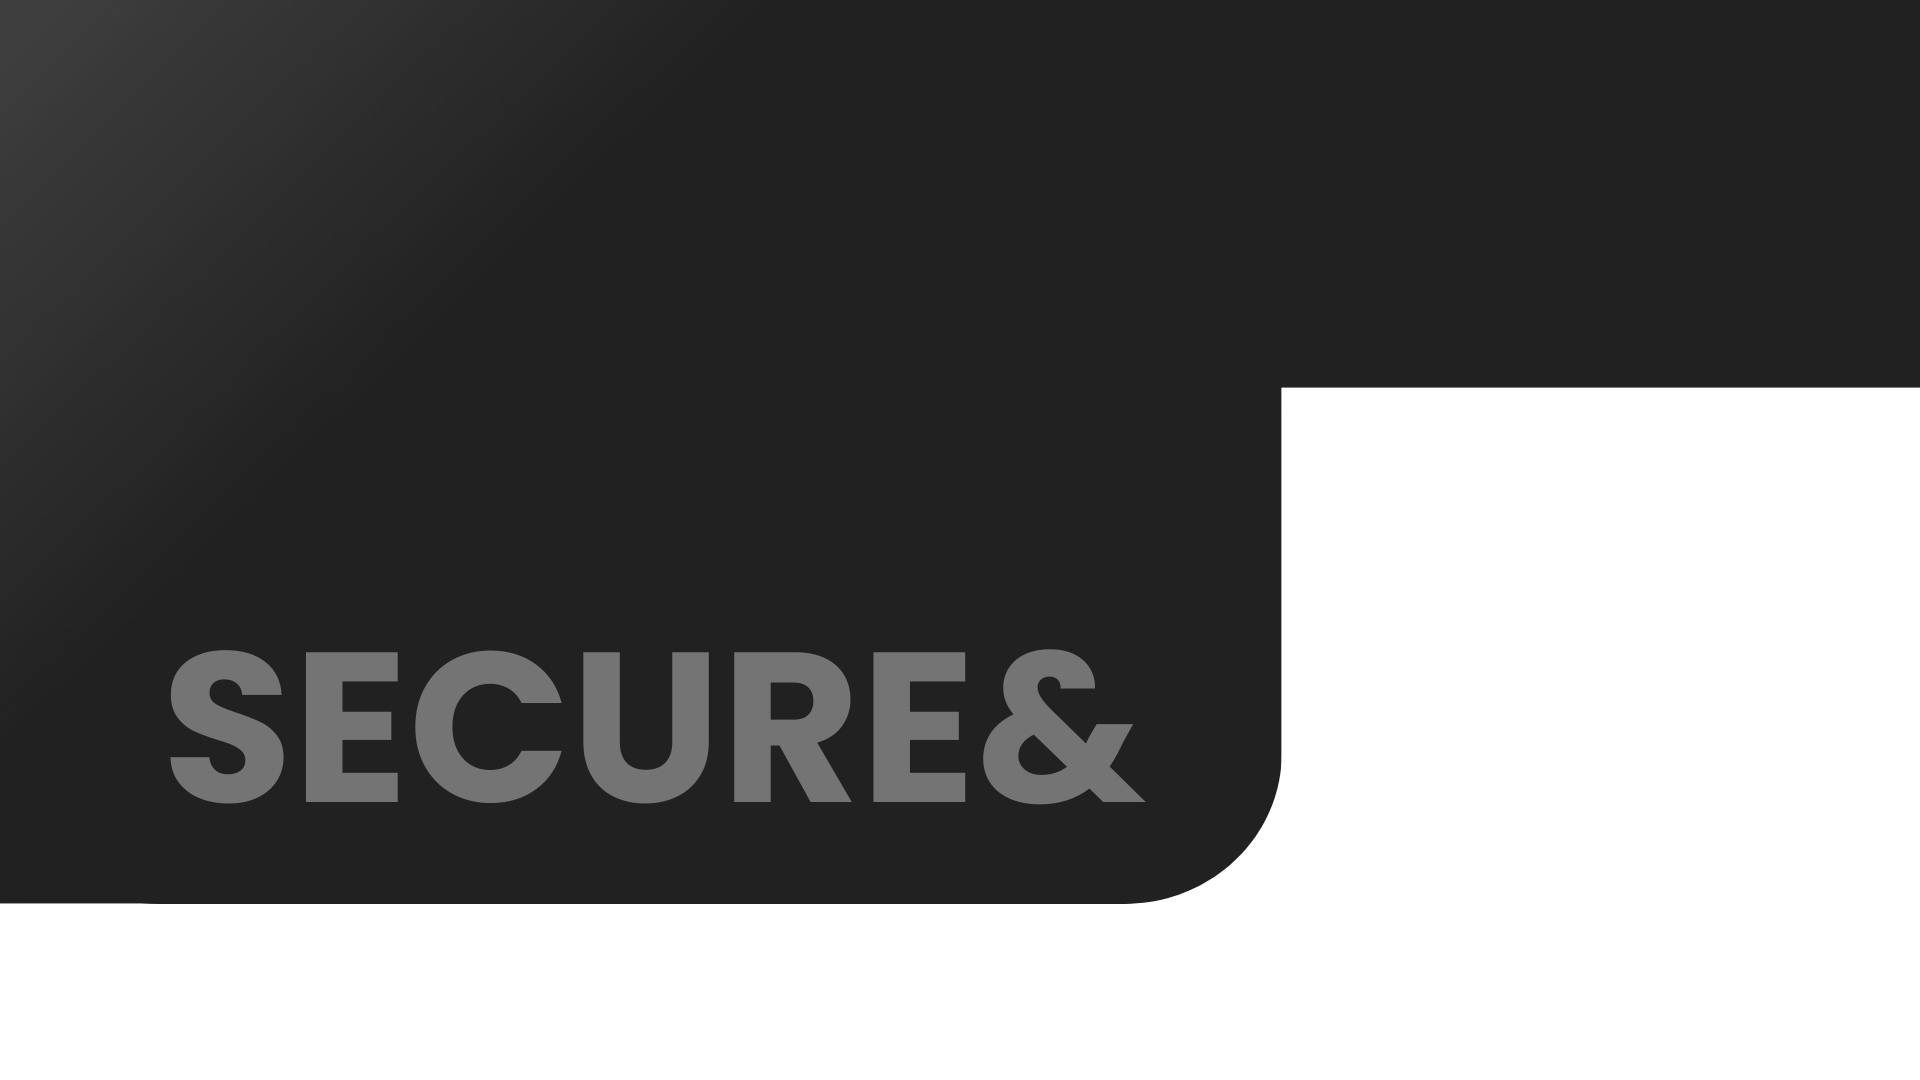
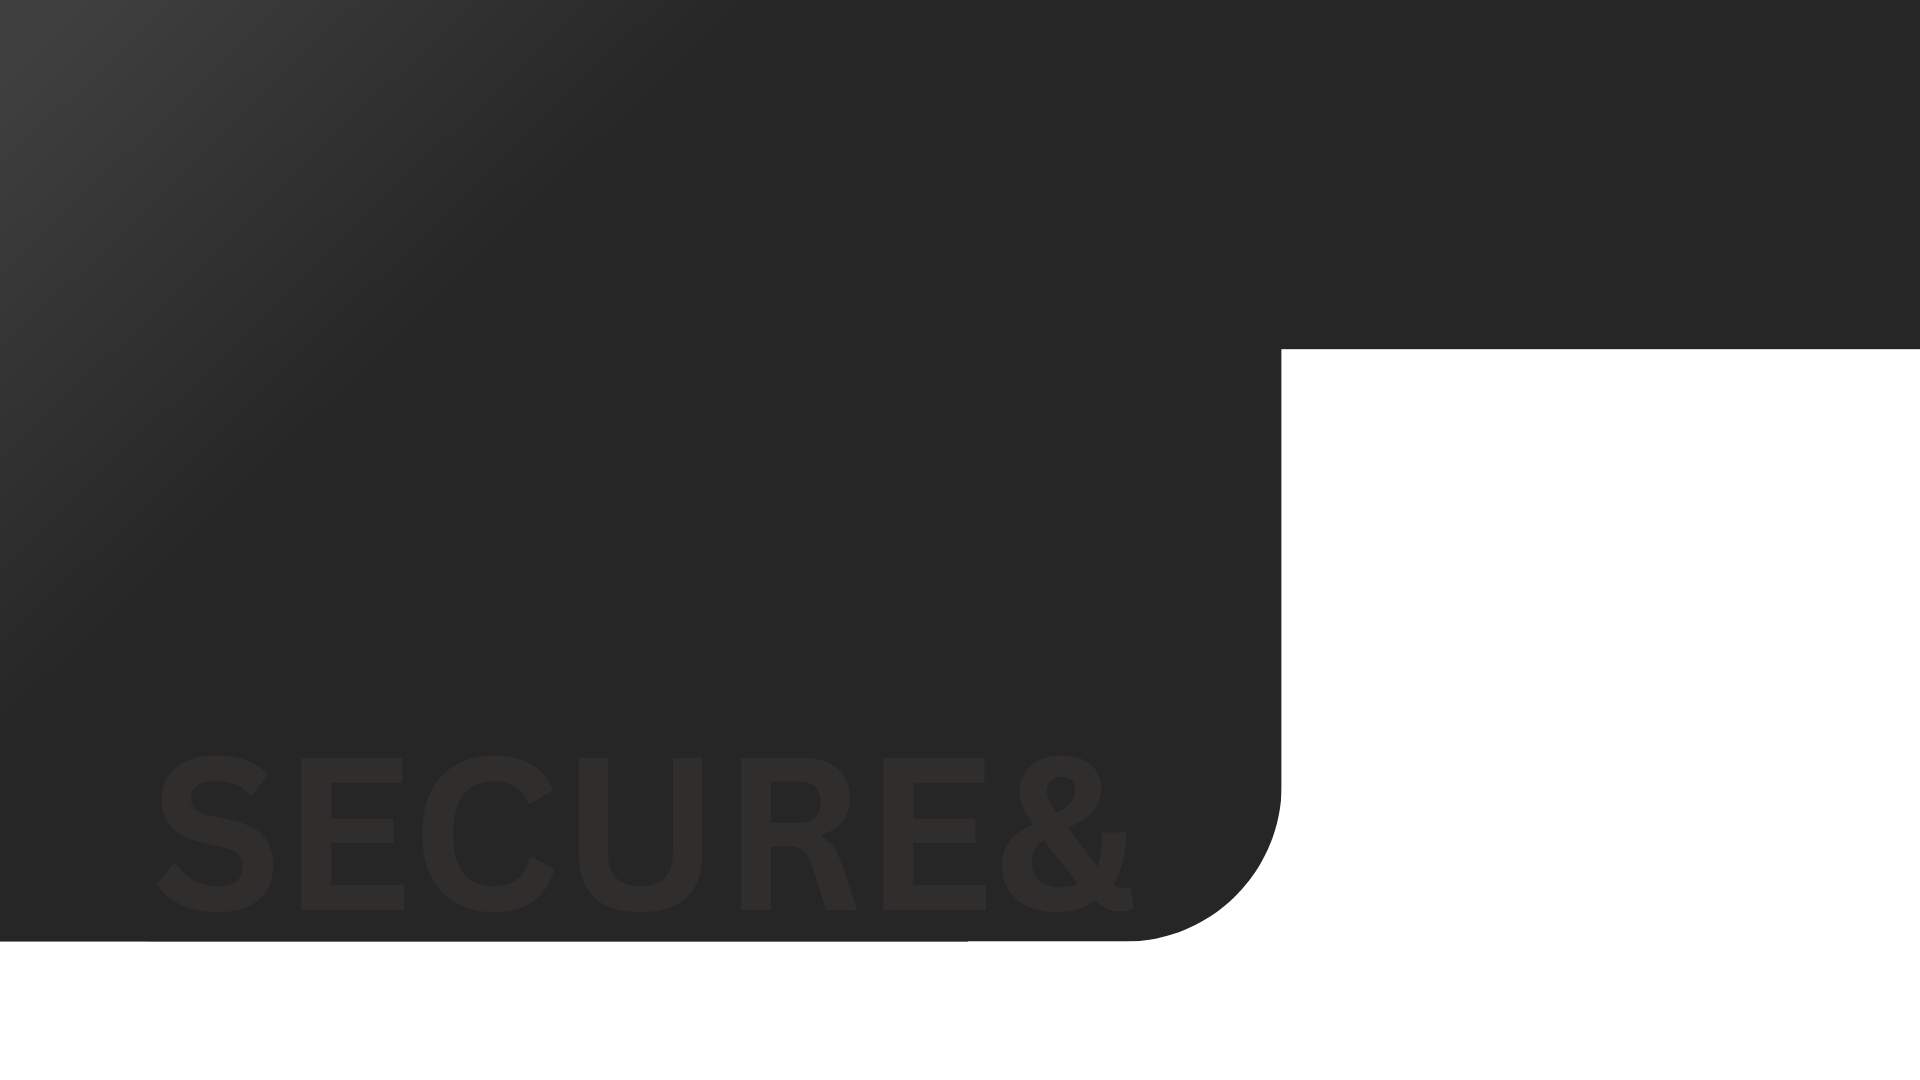
some changes

Changed region(s): [[0.0938, 0.5806, 0.5938, 0.7639], [0.0, 0.7333, 0.6875, 0.8861], [0.6562, 0.3056, 1.0, 0.3667]]

diff --git a/src/pages/Auth/LandingPage.jsx b/src/pages/Auth/LandingPage.jsx
@@ -80,7 +80,7 @@ const LandingPage = () => {
   return (
     <Suspense fallback={<Loader />}>
       <Header openModal={openModal} />
-      <section className="bg-[url('/background.png')] bg-cover bg-center bg-background bg-no-repeat from-[#1a1c1e] to-[#2a2c2f] text-[#d7e1ec] py-10">
+      <section className="bg-[url('/background.png')]  bg-cover bg-center bg-[#343537] bg-no-repeat text-[#d7e1ec] py-12 h-400">
         <div className="max-w-screen-xl mx-auto px-4">
           {slides.map((slide, index) => (
             <div
@@ -89,11 +89,11 @@ const LandingPage = () => {
             >
               <div className="w-full md:w-1/2 text-center md:text-left flex flex-col items-center md:items-start">
                 {/* Title */}
-                <h2 className="text-3xl sm:text-4xl md:text-5xl font-bold mb-4 mt-16">
+                <h2 className="text-3xl  sm:text-4xl md:text-5xl font-bold mb-4 mt-10">
                   {slide.title}
                 </h2>
 
-                <div className="md:hidden mb-4">
+                <div className="md:hidden mt-30 mb-4">
                   <img
                     src={slide.image}
                     alt={slide.title}
@@ -122,7 +122,7 @@ const LandingPage = () => {
                   onload ? "scale-100" : "scale-0"
                 } transition-all duration-1000`}
               >
-                <img
+                {/* <img
                   src={slide.image}
                   alt={slide.title}
                   className={`drop-shadow-lg bg-gradient-to-t from-gray-100 to-blue-500 ${
@@ -140,7 +140,7 @@ const LandingPage = () => {
                     maskPosition: "center",
                     maskSize: "contain",
                   }}
-                />
+                /> */}
               </div>
             </div>
           ))}
